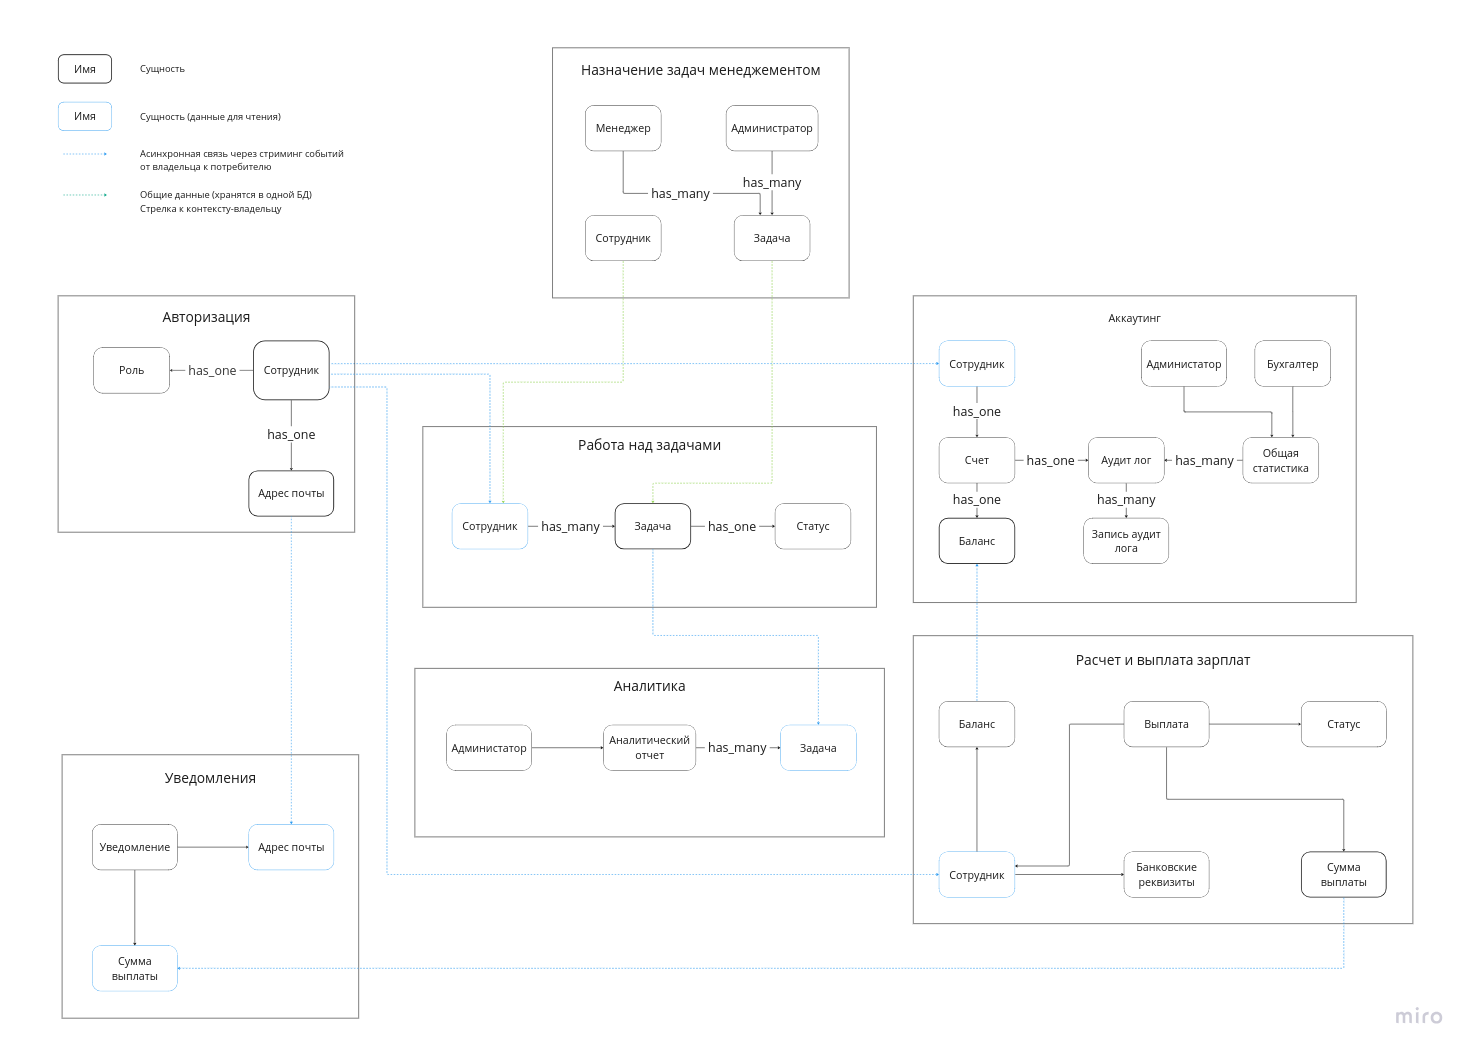
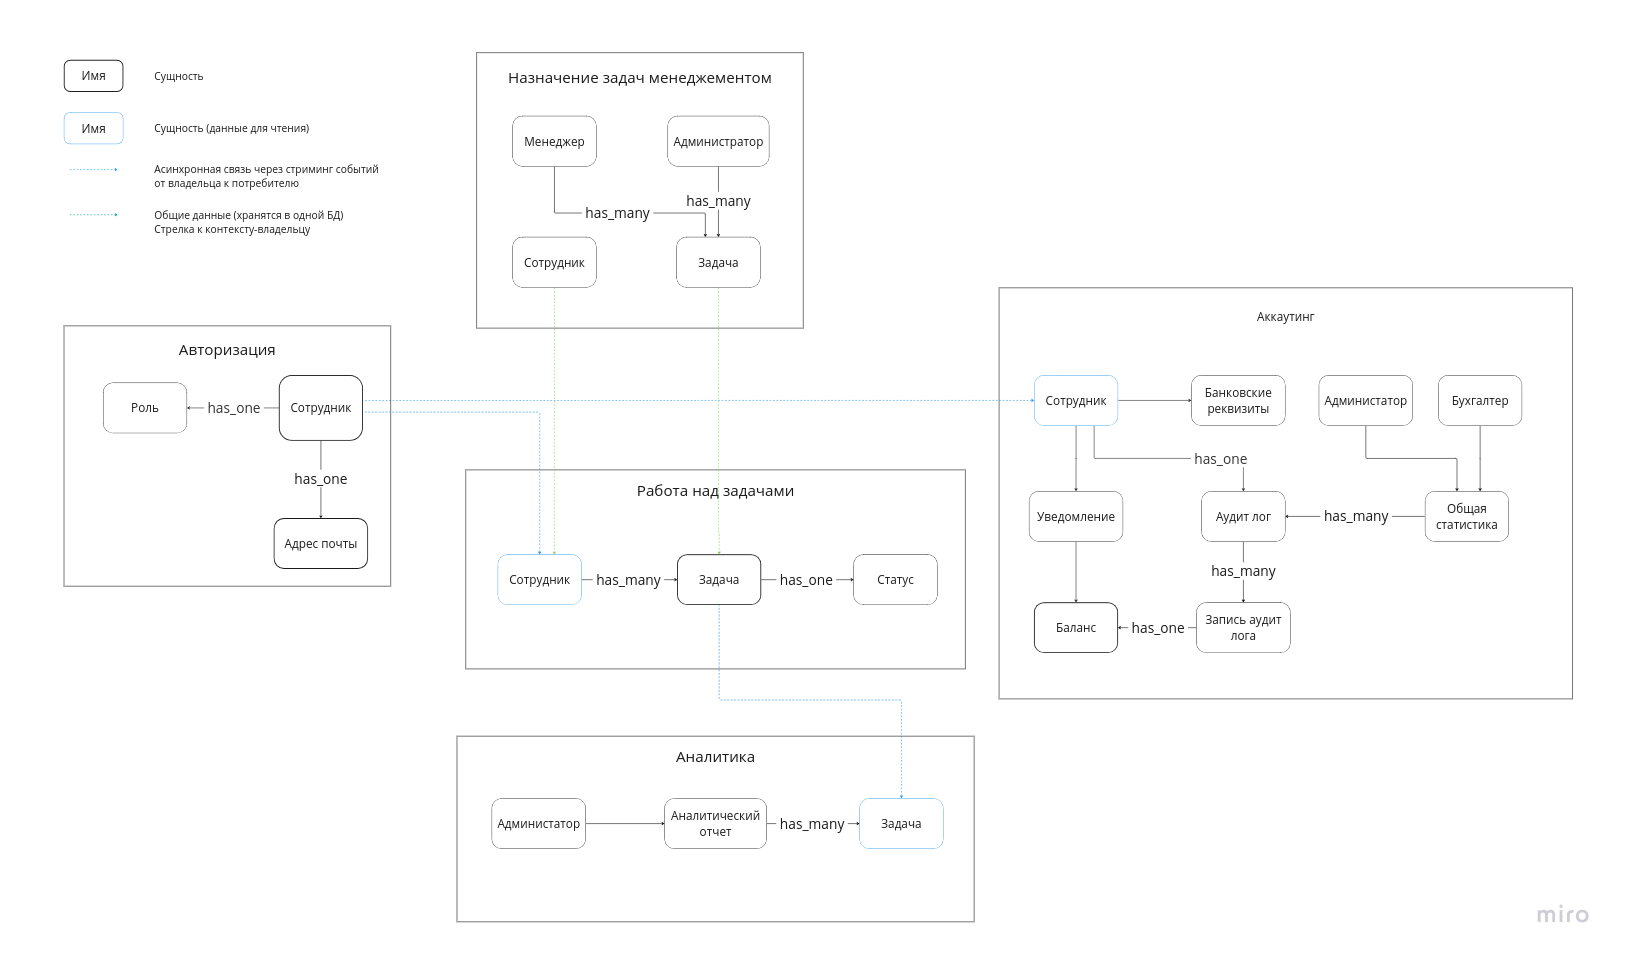
исправлено по результатам разбора дз

diff --git a/docs/v1/README.md b/docs/v1/README.md
@@ -4,22 +4,29 @@
 
 ### Бизнес-события
 
-- **ЗадачаНазначена** - возникает при создании сотрудником задачи. 
+- **СотрудникДобавлен** - возникает после добавлени нового сотрудника в систему
   Содержит:
-  - указатель на задачу
-  - исполнитель
+  - идентификатор сотрудника
+- **РольСотрудникаИзменена** - возникает после изменении роли сотрудника
+  Содержит:
+  - идентификатор сотрудника
+  - новую роль
+- **ЗадачаДобавлена** - возникает при добавлении задачи в систему
+  Содержит:
+  - идентификатор задачи
+  - идентификатор сотрудника
+- **ЗадачаНазначена** - возникает при переназначении менедженром/администратором задачи на другого сотрудника. 
+  Содержит:
+  - идентификатор задачи
+  - идентификатор сотрудника
 - **ЗадачаЗакрыта** - возникает при закрытии сотрудником задачи. 
   Содержит:
-  - указатель на задачу
+  - идентификатор задачи
 - **БалансОбновился** - возникает при изменении баланса сотрудника.
   Содержит:
-  - указатель на сотрудника
+  - идентификатор сотрудника
   - новое значени баланса
 - **РассчетныйПериодЗакончился** - возникает в конце рабочего дня, запускает расчет и выплаты по сотрудникам
-- **ВыплатаРассчитана** - возникает после рассчета выплаты сотрудника, если сумма выплаты больше 0
-  Содержит:
-  - указатель на сотрудника
-  - сумма выплаты
 - **ОплатаПроизведена** - возникает после оплаты сотруднику. 
   Содержит:
   - указатель на сотрудника
@@ -33,16 +40,22 @@
 
 Домен "Назначение задач менеджментом" и "Работа над задачами" хранят сотрудников и задачи в общей БД
 
+**Сотрудник**
+
+Владелец данных: домен авторизации
+Состоит из: идентификатора, роль, адрес почты
+Передается в другие домены через CUD событие: СотрудникСоздан
+
 **Задача**
 
 Владелец данных: домен работы над задачами
-Состоит из: описания, статуса, цены назначения, цены закрытия
+Состоит из: описания, цены назначения, цены закрытия
 Передается в другие домены через CUD событие: ЗадачаСоздана
 
-**Сумма выплаты**
-
-**Баланс**
-
-**Адрес почты**
 
 ## Разделение на сервисы
+ 
+- **Сервис авторизации**: единый сервис авторизации используемый всеми остальными сервисами для получения информации о пользователе
+- **Таск-трекер**: сервис создания и управления задачами
+- **Аккаутинг**: сервис бухгалтерсого учета и выплат
+- **Аналитика**: отображение аналитических данных
